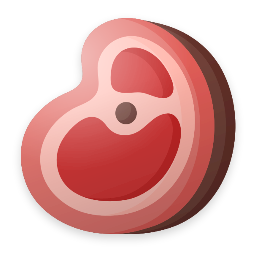
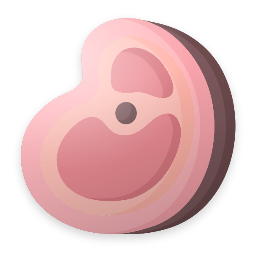
fix: 재료 아이콘 알아보기 쉽게 다듬기
- 두부(노랑 → 흰색), 김치(주황 → 빨강), 돼지고기(붉은 살 → 분홍), 대추(빨강 → 검붉은색),
  설탕(하늘색 얼음 → 흰 각설탕) 색을 바꾸고, 김은 주먹밥 대신 김 아이콘을 새로 그림
- 아이콘 매칭 표에 공공 레시피에서 자주 나오는 재료 100여 개 추가, 이름 중간에
  재료가 들어 있는 경우(표고버섯마른것, 새우젓)도 찾도록 함
  → 그릇(bowl) 아이콘으로 보이는 주재료 19.3% → 7.7%
- 목록 화면(재료 관리, 사진 분석, 레시피 재료, 재료 추가)의 작은 아이콘을 연한 회색 타일 위에 올림

Claude-Session: https://claude.ai/code/session_0167vu71muFPXDHPYQVLqW5L

diff --git a/src/lib/icons.ts b/src/lib/icons.ts
@@ -221,10 +221,121 @@ const INGREDIENT_ICON: Record<string, IconName> = {
   고추기름: 'pouring-liquid',
   콜리플라워: 'broccoli',
   아몬드슬라이스: 'almond',
+  // 공공 레시피에서 자주 나오는데 그릇(bowl)으로 보이던 재료
+  연근: 'daikon',
+  마: 'daikon',
+  우엉: 'ginseng',
+  도라지: 'ginseng',
+  더덕: 'ginseng',
+  콜라비: 'cabbage',
+  적채: 'cabbage',
+  호박잎: 'leafy-green',
+  달래: 'chives',
+  톳: 'kelp',
+  식용꽃: 'herb',
+  정종: 'pouring-liquid',
+  청주: 'pouring-liquid',
+  소주: 'pouring-liquid',
+  화이트와인: 'pouring-liquid',
+  레드와인: 'pouring-liquid',
+  베이킹파우더: 'rice-sheaf',
+  이스트: 'rice-sheaf',
+  젤라틴: 'rice-sheaf',
+  판젤라틴: 'rice-sheaf',
+  라이스페이퍼: 'flatbread',
+  만두피: 'flatbread',
+  관자: 'clam',
+  꽃게: 'shrimp',
+  황태: 'fish',
+  북어: 'fish',
+  동태: 'fish',
+  삼치: 'fish',
+  대구: 'fish',
+  대구살: 'fish',
+  가다랑어포: 'fish',
+  쇠고기: 'cut-of-meat',
+  삼겹살: 'bacon',
+  통삼겹: 'bacon',
+  목살: 'bacon',
+  묵은지: 'kimchi',
+  유부: 'tofu',
+  곤약: 'tofu',
+  청포묵: 'tofu',
+  도토리묵: 'tofu',
+  달걀: 'egg',
+  지단: 'egg',
+  달걀지단: 'egg',
+  백미: 'cooked-rice',
+  불린쌀: 'cooked-rice',
+  귀리: 'cooked-rice',
+  누룽지: 'cooked-rice',
+  검은콩: 'peas',
+  서리태: 'peas',
+  팥: 'peas',
+  은행: 'almond',
+  호박씨: 'almond',
+  포도: 'blueberry',
+  오미자: 'blueberry',
+  감: 'orange',
+  홍시: 'orange',
+  곶감: 'orange',
+  강황가루: 'curry',
+  후춧가루: 'salt',
+  흰후춧가루: 'salt',
+  천일염: 'salt',
+  스테비아: 'candy',
+  알룰로스: 'candy',
+  토마토소스: 'ketchup',
+  겨자: 'jar',
+  연겨자: 'jar',
+  겨자가루: 'jar',
+  머스터드: 'jar',
+  사워크림: 'jar',
+  발사믹소스: 'jar',
+  소스: 'jar',
+  와사비: 'jar',
+  액젓: 'soy-sauce',
+  조청: 'honey',
+  매실청: 'honey',
+  막걸리: 'pouring-liquid',
+  식물성기름: 'pouring-liquid',
+  코코넛밀크: 'milk',
+  쌀밥: 'cooked-rice',
+  멥쌀: 'cooked-rice',
+  보리: 'cooked-rice',
+  소면: 'noodles',
+  바게트: 'bread',
+  장어: 'fish',
+  광어: 'fish',
+  가자미: 'fish',
+  코다리: 'fish',
+  가쓰오부시: 'fish',
+  대하: 'shrimp',
+  게살: 'shrimp',
+  게맛살: 'shrimp',
+  참치: 'canned-food',
+  캔참치: 'canned-food',
+  차돌박이: 'cut-of-meat',
+  돼지갈비: 'bacon',
+  닭봉: 'poultry-leg',
+  매생이: 'kelp',
+  녹차가루: 'herb',
+  해바라기씨: 'almond',
+  콩: 'peas',
+  콩비지: 'tofu',
+  배춧잎: 'cabbage',
+  컬리플라워: 'broccoli',
+  피클: 'cucumber',
+  레디쉬: 'daikon',
+  래디쉬: 'daikon',
+  라임: 'lemon',
+  자몽: 'orange',
+  체리: 'strawberry',
+  라즈베리: 'strawberry',
 };
 
 /** 자동완성에 쓰는 알려진 재료 이름 (양념 제외) */
-const SEASONINGS = new Set(['간장', '식용유', '올리브유', '참기름', '식초', '소금', '후추', '설탕', '다진마늘', '고춧가루', '올리고당']);
+const SEASONINGS = new Set(['간장', '식용유', '올리브유', '참기름', '식초', '소금', '후추', '설탕', '다진마늘', '고춧가루', '올리고당', '소스', '액젓']);
 export const KNOWN_INGREDIENTS = Object.keys(INGREDIENT_ICON).filter((n) => !SEASONINGS.has(n));
 
 // 긴 이름부터 비교해야 "돼지고기"가 "고기"보다 먼저 맞는다.
@@ -236,5 +347,8 @@ export function ingredientIcon(name: string): IconName {
   if (exact) return exact;
   // "연두부", "칵테일새우"처럼 앞에 수식어가 붙은 이름
   const suffix = ICON_KEYS_BY_LENGTH.find((k) => k.length >= 2 && key.endsWith(k));
-  return suffix ? INGREDIENT_ICON[suffix] : 'bowl';
+  if (suffix) return INGREDIENT_ICON[suffix];
+  // "표고버섯마른것", "새우젓", "오렌지주스"처럼 재료 이름이 중간이나 앞에 들어 있는 이름
+  const inner = ICON_KEYS_BY_LENGTH.find((k) => k.length >= 2 && key.includes(k));
+  return inner ? INGREDIENT_ICON[inner] : 'bowl';
 }

diff --git a/src/components/IngredientIcon.tsx b/src/components/IngredientIcon.tsx
@@ -1,7 +1,8 @@
-import { Image, type ImageStyle, type StyleProp } from 'react-native';
+import { Image, View, type ImageStyle, type StyleProp } from 'react-native';
 
 import { ICONS, type IconName } from '@/data/assets';
 import { ingredientIcon } from '@/lib/icons';
+import { colors } from '@/theme';
 
 type Props = {
   /** 재료 이름 (예: "계란") */
@@ -9,18 +10,35 @@ type Props = {
   /** 재료가 아닌 아이콘을 직접 지정할 때 (예: 홈 카테고리) */
   icon?: IconName;
   size?: number;
+  /** 연한 회색 타일 위에 올린다. 목록처럼 작게 보일 때 모양이 또렷해진다. size는 타일 크기 */
+  tile?: boolean;
   style?: StyleProp<ImageStyle>;
 };
 
 /** 입체 효과를 더한 Flaticon 재료 아이콘 */
-export function IngredientIcon({ name, icon, size = 24, style }: Props) {
+export function IngredientIcon({ name, icon, size = 24, tile = false, style }: Props) {
   const key = icon ?? ingredientIcon(name ?? '');
-  return (
+  const iconSize = tile ? Math.round(size * 0.76) : size;
+  const image = (
     <Image
       source={ICONS[key]}
-      style={[{ width: size, height: size }, style]}
+      style={[{ width: iconSize, height: iconSize }, !tile && style]}
       resizeMode="contain"
       accessibilityIgnoresInvertColors
     />
+  );
+  if (!tile) return image;
+  return (
+    <View
+      style={{
+        width: size,
+        height: size,
+        borderRadius: size * 0.3,
+        backgroundColor: colors.surfaceMuted,
+        alignItems: 'center',
+        justifyContent: 'center',
+      }}>
+      {image}
+    </View>
   );
 }

diff --git a/src/app/info.tsx b/src/app/info.tsx
@@ -29,7 +29,7 @@ const CONTENT = {
       '조리 시간과 난이도는 원본에 없어 앱에서 추정한 값이에요.\n' +
       '‘AI 보충 설명’은 원본 레시피를 바탕으로 Google Gemini가 만든 설명이며, 원본 레시피 내용은 바꾸지 않아요.\n\n' +
       '샘플 레시피 사진은 Unsplash 라이선스로 제공된 사진이에요.\n' +
-      '재료 아이콘: Icons by Freepik (Magnific) from Flaticon (www.flaticon.com). 원본에 입체 효과를 더해 사용했어요.',
+      '재료 아이콘: Icons by Freepik (Magnific) from Flaticon (www.flaticon.com). 원본에 입체 효과를 더하고, 일부는 알아보기 쉽게 색을 바꿔 사용했어요.',
   },
 };
 

diff --git a/src/app/(tabs)/pantry.tsx b/src/app/(tabs)/pantry.tsx
@@ -57,7 +57,7 @@ export default function PantryScreen() {
           ListEmptyComponent={<Text style={styles.empty}>등록된 재료가 없어요.</Text>}
           renderItem={({ item }) => (
             <Pressable style={styles.row} onPress={() => setEditing(item)}>
-              <IngredientIcon name={item.name} size={28} />
+              <IngredientIcon name={item.name} size={40} tile />
               <Text style={styles.name}>{item.name}</Text>
               <View style={styles.spacer} />
               <Text style={styles.amount}>{item.amount ?? '양 입력'}</Text>

diff --git a/src/app/analysis.tsx b/src/app/analysis.tsx
@@ -134,7 +134,7 @@ export default function AnalysisScreen() {
                     onPress={() => toggle(item.name)}
                     accessibilityRole="checkbox"
                     accessibilityState={{ checked: isChecked }}>
-                    <IngredientIcon name={item.name} size={28} />
+                    <IngredientIcon name={item.name} size={40} tile />
                     <Text style={styles.rowName}>{item.name}</Text>
                     {isOwned && <Text style={styles.ownedBadge}>보유 중</Text>}
                     <View style={styles.spacer} />

diff --git a/src/app/ingredients/add.tsx b/src/app/ingredients/add.tsx
@@ -165,7 +165,7 @@ export default function AddIngredientsScreen() {
           <View style={styles.ownedGrid}>
             {pantry.map((p) => (
               <View key={p.id} style={styles.ownedItem}>
-                <IngredientIcon name={p.name} size={24} />
+                <IngredientIcon name={p.name} size={32} tile />
                 <View style={styles.ownedText}>
                   <Text style={styles.ownedName} numberOfLines={1}>
                     {p.name}

diff --git a/src/app/recipe/[id]/index.tsx b/src/app/recipe/[id]/index.tsx
@@ -234,7 +234,7 @@ function IngredientRow({
 }) {
   return (
     <View style={styles.ingredient}>
-      <IngredientIcon name={ingredient.name} size={24} />
+      <IngredientIcon name={ingredient.name} size={34} tile />
       <Text style={styles.ingredientName}>{ingredient.name}</Text>
       {ingredient.optional && <Text style={styles.optional}>선택</Text>}
       {!subtle && (owned ? <View style={styles.ownedDot} /> : <Text style={styles.lack}>부족</Text>)}

diff --git a/docs/flaticon-icons.md b/docs/flaticon-icons.md
@@ -65,7 +65,7 @@
 | `tofu.png` | 두부 | [tofu](https://www.flaticon.com/free-icon/tofu_1687170) |
 | `doenjang.png` | 된장 | [miso](https://www.flaticon.com/free-icon/miso_7472432) |
 | `gochujang.png` | 고추장 | [gochujang](https://www.flaticon.com/free-icon/gochujang_12971405) |
-| `gim.png` | 김(주먹밥으로 대신) | [onigiri](https://www.flaticon.com/free-icon/onigiri_5896686) |
+| `gim.png` | 김 | 직접 그림 (받지 않는다) |
 | `cabbage.png` | 양배추 | [cabbage](https://www.flaticon.com/free-icon/cabbage_859319) |
 | `zucchini.png` | 애호박 | [zucchini](https://www.flaticon.com/free-icon/zucchini_1515034) |
 | `soy-sauce.png` | 간장 | [soy-sauce](https://www.flaticon.com/free-icon/soy-sauce_4391852) |
